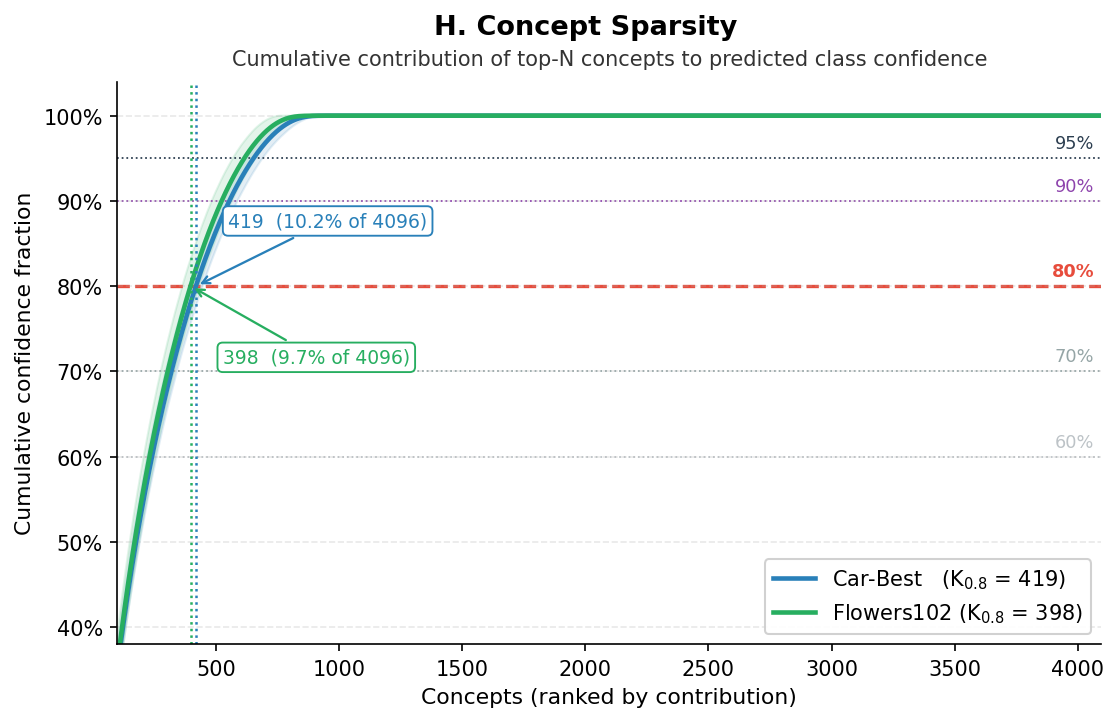
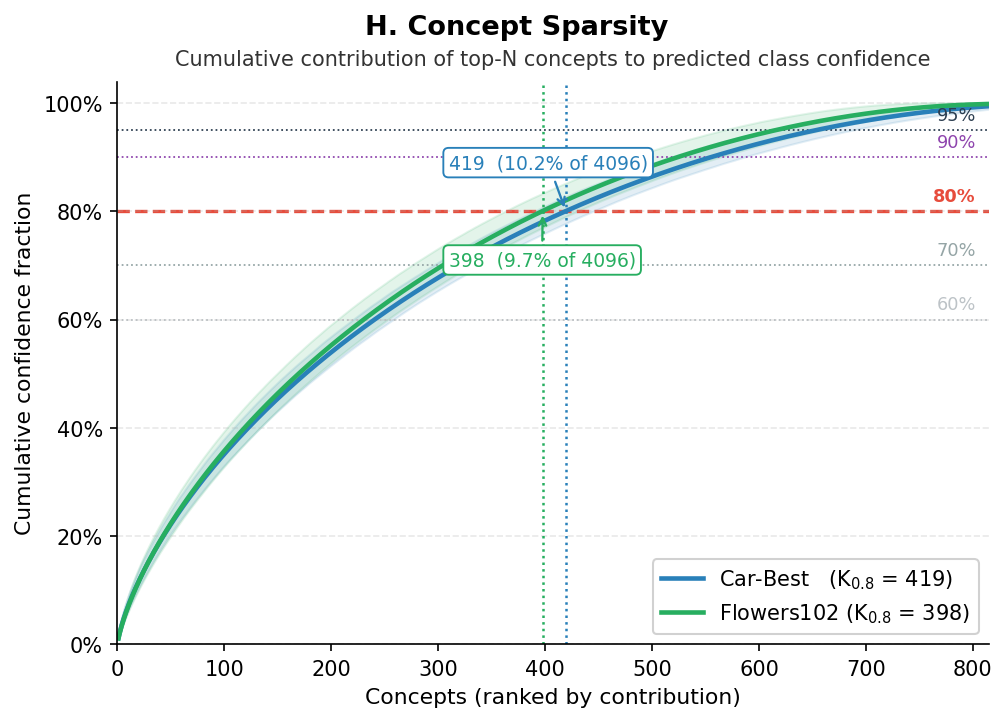
figures: fix Fig H layout, clip to 0-800 range

diff --git a/paper_scripts/gen_fig_H_sparsity.py b/paper_scripts/gen_fig_H_sparsity.py
@@ -211,13 +211,15 @@ if __name__ == '__main__':
     FLW_COLOR = '#27ae60'
     THRESH_COLORS = ['#bdc3c7', '#95a5a6', '#e74c3c', '#8e44ad', '#2c3e50']
 
-    # ── Find x-range where mean curve first crosses 0.40 ─────────────────────
-    x_start = int(np.argmax(((car_mean + fl_mean) / 2) >= 0.40))
-    x_start = max(0, x_start - 20)   # small left margin
+    # ── Clip x-axis to where curve is still changing (95th pct crosses 0.99) ──
+    avg_mean = (car_mean + fl_mean) / 2
+    x_start  = 0
+    x_end    = int(np.argmax(avg_mean >= 0.99)) + 50   # a bit past 99%
+    x_end    = min(x_end, K_TOTAL)
 
     # ── Single panel ─────────────────────────────────────────────────────────
-    fig, ax = plt.subplots(figsize=(8, 5.0))
-    fig.subplots_adjust(left=0.11, right=0.93, top=0.88, bottom=0.13)
+    fig, ax = plt.subplots(figsize=(7, 5.0))
+    fig.subplots_adjust(left=0.12, right=0.95, top=0.88, bottom=0.13)
 
     ax.fill_between(x_rank, car_p10, car_p90, alpha=0.13, color=CAR_COLOR)
     ax.fill_between(x_rank, fl_p10,  fl_p90,  alpha=0.13, color=FLW_COLOR)
@@ -226,12 +228,12 @@ if __name__ == '__main__':
     ax.plot(x_rank, fl_mean,  color=FLW_COLOR, linewidth=2.2,
             label=f'Flowers102 (K$_{{0.8}}$ = {fl_k08:.0f})')
 
-    # Threshold lines
+    # Threshold lines — labels placed just inside the right edge
     for thresh, tc in zip(THRESHOLDS, THRESH_COLORS):
         lw = 1.6 if thresh == 0.8 else 0.85
         ls = '--' if thresh == 0.8 else ':'
         ax.axhline(thresh, color=tc, linewidth=lw, linestyle=ls, zorder=1)
-        ax.text(K_TOTAL * 0.993, thresh + 0.007,
+        ax.text(x_end * 0.985, thresh + 0.012,
                 f'{int(thresh*100)}%', ha='right', va='bottom',
                 fontsize=8.5, color=tc,
                 fontweight='bold' if thresh == 0.8 else 'normal')
@@ -240,24 +242,25 @@ if __name__ == '__main__':
     ax.axvline(car_k08, color=CAR_COLOR, linewidth=1.2, linestyle=':')
     ax.axvline(fl_k08,  color=FLW_COLOR, linewidth=1.2, linestyle=':')
 
-    # Annotations — car above, flowers below
+    # Annotations — car above, flowers below the 80% line
+    ann_x = x_end * 0.38
     ax.annotate(f'{car_k08:.0f}  ({car_k08/K_TOTAL*100:.1f}% of {K_TOTAL})',
-                xy=(car_k08, 0.8), xytext=(car_k08 + 130, 0.87),
+                xy=(car_k08, 0.8), xytext=(ann_x, 0.88),
                 fontsize=9, color=CAR_COLOR,
                 arrowprops=dict(arrowstyle='->', color=CAR_COLOR, lw=1.1),
                 bbox=dict(boxstyle='round,pad=0.28', fc='white', ec=CAR_COLOR, lw=0.9))
     ax.annotate(f'{fl_k08:.0f}  ({fl_k08/K_TOTAL*100:.1f}% of {K_TOTAL})',
-                xy=(fl_k08, 0.8), xytext=(fl_k08 + 130, 0.71),
+                xy=(fl_k08, 0.8), xytext=(ann_x, 0.70),
                 fontsize=9, color=FLW_COLOR,
                 arrowprops=dict(arrowstyle='->', color=FLW_COLOR, lw=1.1),
                 bbox=dict(boxstyle='round,pad=0.28', fc='white', ec=FLW_COLOR, lw=0.9))
 
     ax.set_xlabel('Concepts (ranked by contribution)', fontsize=10.5)
     ax.set_ylabel('Cumulative confidence fraction', fontsize=10.5)
-    ax.set_xlim(x_start, K_TOTAL)
-    ax.set_ylim(0.38, 1.04)
-    ax.set_yticks([0.4, 0.5, 0.6, 0.7, 0.8, 0.9, 1.0])
-    ax.set_yticklabels(['40%', '50%', '60%', '70%', '80%', '90%', '100%'])
+    ax.set_xlim(x_start, x_end)
+    ax.set_ylim(0.0, 1.04)
+    ax.set_yticks([0.0, 0.2, 0.4, 0.6, 0.8, 1.0])
+    ax.set_yticklabels(['0%', '20%', '40%', '60%', '80%', '100%'])
     ax.spines[['top', 'right']].set_visible(False)
     ax.legend(fontsize=10, framealpha=0.9, loc='lower right')
     ax.grid(axis='y', linestyle='--', alpha=0.28)
